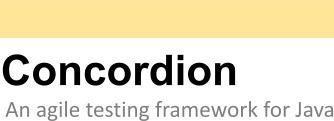
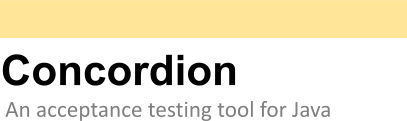
Note to self: must stop calling it a framework. It's a tool.

Changed region(s): [[0.0, 0.4463, 0.7186, 0.719], [0.0, 0.8182, 1.0, 1.0]]

diff --git a/website/revamp/index.html b/website/revamp/index.html
@@ -27,9 +27,9 @@
 .sidePanel {
   float: right;
   background-color: white;
-  width: 300px;
-  height: 400px;
-  margin: 34px 0px 64px 64px;
+  width: 318px;
+  height: 350px;
+  margin: 28px 0px 64px 64px;
   border: 2px solid #e6e6dd;
 }
 </style>
@@ -72,7 +72,7 @@ and, since they're linked to the system, they're always in sync.
 <p>
 <span class="keyPoint">Separates tests from implementation</span>
 Tests that include a lot of implementation detail lock you into
-that implementation. Concordion helps you document the logic
+that implementation. Concordion helps you to document the logic
 and behaviour of your system in a way that does not lock you in.
 </p>
 </li>

diff --git a/website/revamp/css/default.css b/website/revamp/css/default.css
@@ -16,16 +16,16 @@ code, pre {
 }
 .page {
   background-color: #fcfcfa;
-  width: 896px;
+  width: 916px;
   margin: 0 auto;
-  min-height: 800px;
+  min-height: 690px;
 }
 .content {
   margin: 0px 64px 4px 64px;
 
 }
 .copyright {
-    width: 889px;
+    width: 909px;
     margin: 0px auto;
     text-align: right;
     padding: 4px;
